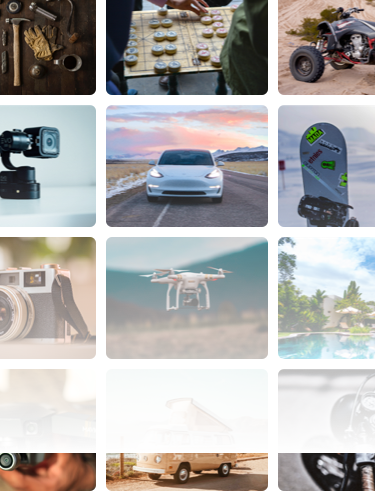
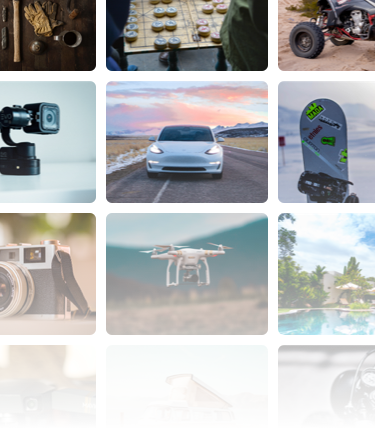
fixed welcome styles

diff --git a/src/style/welcomeStyle.js b/src/style/welcomeStyle.js
@@ -8,63 +8,78 @@ const styles = StyleSheet.create({
   },
   welcomeGridViewImage: {
     width: responsiveWidth(100),
-    height: responsiveHeight(43),
+    height: responsiveHeight(55.78),
   },
   ooImage: {
     width: responsiveWidth(100),
     height: responsiveHeight(100),
   },
   innerContainer: {
-    marginLeft: responsiveWidth(4),
-    marginRight: responsiveWidth(4),
+    marginHorizontal: responsiveWidth(5.33),
+    marginTop: responsiveHeight(-12.8)
   },
   btnLayout: {
-    marginTop: responsiveHeight(5),
+    marginTop: responsiveHeight(3.94),
     flexDirection: "column",
     justifyContent: "space-between",
     alignItems: "center"
   },
   rentText: {
     fontFamily: "TruenoSBd",
-    fontSize: responsiveFontSize(4)
+    fontSize: 32
   },
   welcomeText: {
     marginTop: responsiveHeight(3),
     fontFamily: "SFProText-Regular",
-    fontSize: responsiveFontSize(2)
+    fontSize: 17
   },
-  textLayout: {
-    marginTop: responsiveHeight(3),
+  midLayout: {
+    flexDirection: "column",
+    width: responsiveWidth(89.34),
+    height: responsiveHeight(28.57),
+    justifyContent: "space-between",
+    alignItems: "flex-start",
   },
   btnSignUpLayout: {
     backgroundColor: "#0055FF",
-    width: responsiveWidth(92),
-    height: responsiveHeight(5),
+    width: responsiveWidth(89.34),
+    height: responsiveHeight(5.6),
     justifyContent: "center",
     alignItems: "center",
     borderRadius: 5,
   },
   btnLoginLayout: {
-    marginTop: responsiveHeight(1),
+    marginTop: responsiveHeight(1.47),
     backgroundColor: "#A3A3BD",
-    width: responsiveWidth(92),
-    height: responsiveHeight(5),
+    width: responsiveWidth(89.34),
+    height: responsiveHeight(5.6),
     justifyContent: "center",
     alignItems: "center",
     borderRadius: 5,
   },
   btnNotNowLayout: {
-    marginTop: responsiveHeight(1),
+    marginTop: responsiveHeight(1.47),
     backgroundColor: "transparent",
-    width: responsiveWidth(92),
-    height: responsiveHeight(5),
+    width: responsiveWidth(89.34),
+    height: responsiveHeight(5.6),
     justifyContent: "center",
     alignItems: "center",
   },
   btnText: {
     fontFamily: "SFProText-Semibold",
-    fontSize: responsiveFontSize(2),
-    textAlign: "center"
+    fontSize: 17,
+    textAlign: "center",
+    color: "white"
+  },
+  notNowBtnText: {
+    fontFamily: "SFProText-Semibold",
+    fontSize: 17,
+    textAlign: "center",
+    color: "#0055FF"
+  },
+  ooIcon: {
+    width: 67,
+    height: 44,
   }
 });
 

diff --git a/src/container/Welcome.js b/src/container/Welcome.js
@@ -19,12 +19,10 @@ export default class Welcome extends Component {
           <Image source={require('../../assets/images/welcomeGridView.png')}/>
         </View>
         <View style={styles.innerContainer}>
-          <View>
-            <Image source={require('../../assets/images/oo.png')}/>
-          </View>
-          <View style={styles.textLayout}>
+          <View style={styles.midLayout}>
+            <Image style={styles.ooIcon} source={require('../../assets/images/oo.png')}/>
             <Text style={styles.rentText}>Rent Everything,{"\n"}Everywhere</Text>
-            <Text style={styles.welcomeText}>Welcome to your sharing economy platform,{"\n"}where everything can be{"\n"}rented by everyone.</Text>
+            <Text style={styles.welcomeText}>Welcome to your sharing economy platform, where everything can be{"\n"}rented by everyone.</Text>
           </View>
           <View style={styles.btnLayout}>
             <TouchableOpacity style={styles.btnSignUpLayout} onPress={()=>Actions.Signup()}>
@@ -34,7 +32,7 @@ export default class Welcome extends Component {
               <Text style={styles.btnText}>Log in</Text>
             </TouchableOpacity>
             <TouchableOpacity style={styles.btnNotNowLayout}>
-              <Text style={styles.btnText}>Not now</Text>
+              <Text style={styles.notNowBtnText}>Not now</Text>
             </TouchableOpacity>
           </View>
         </View>
